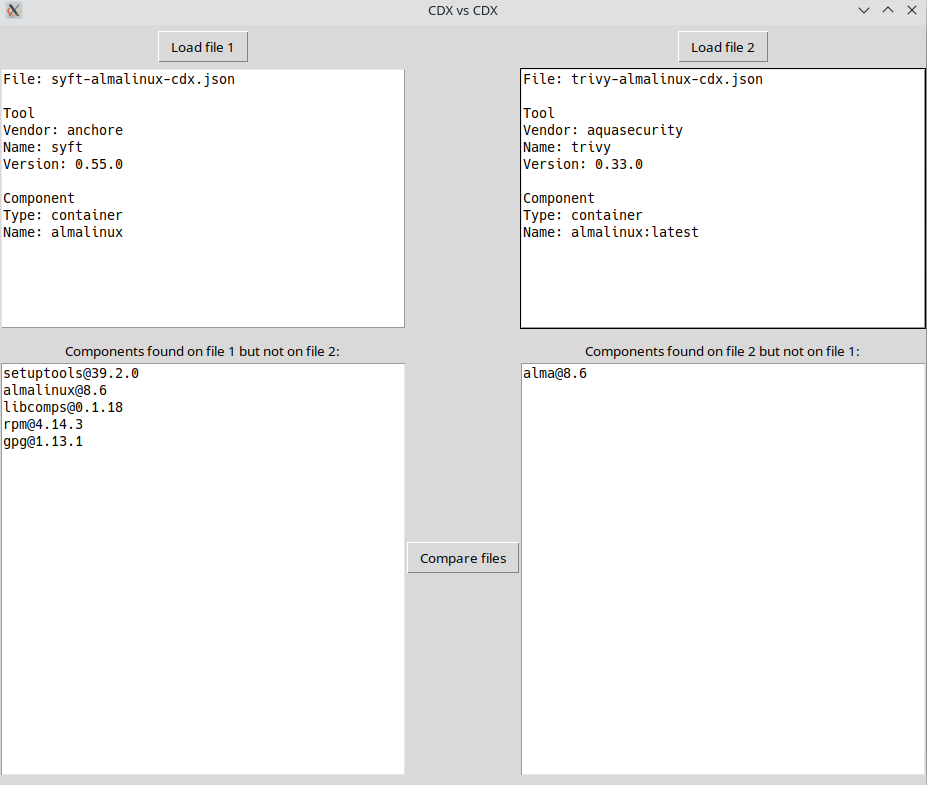
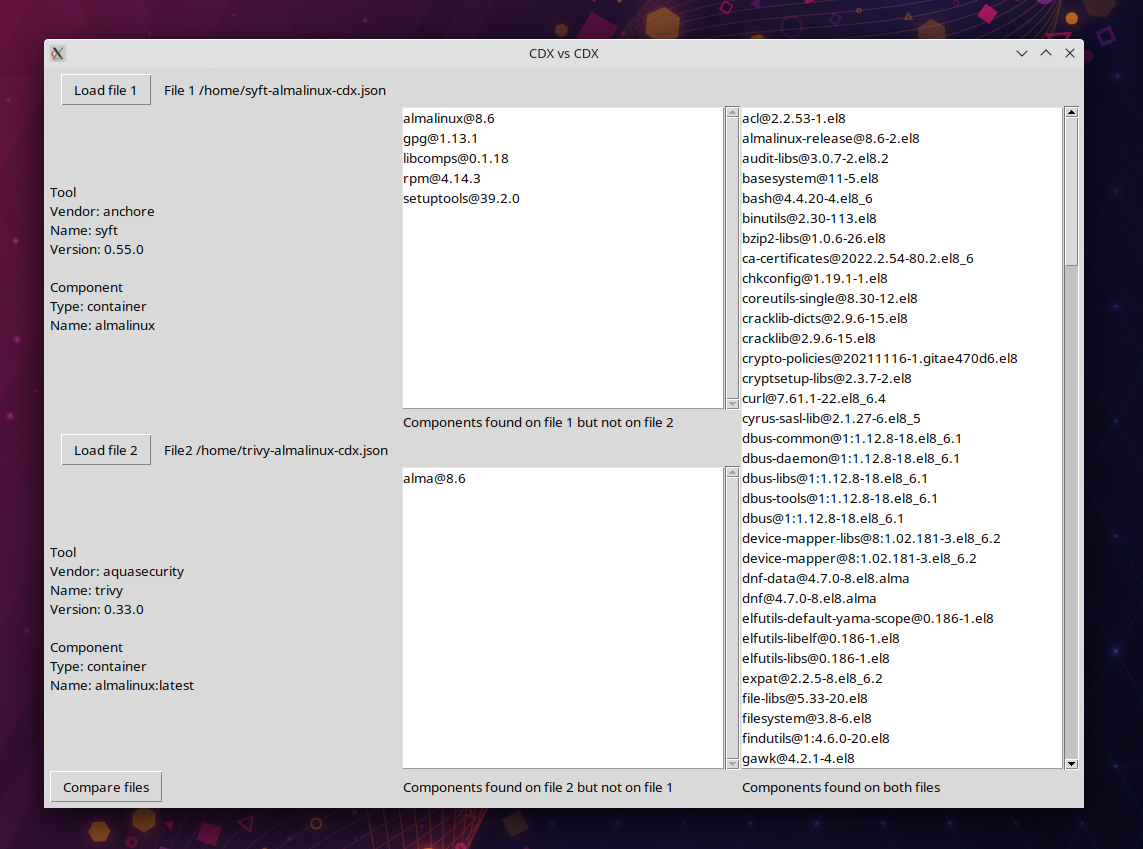
feat: update documentation

diff --git a/README.md b/README.md
@@ -1,6 +1,7 @@
 # CDX vs CDX
 
-Compare two CycloneDX files and see which components each one have that the other does not have.
+Compare two CycloneDX files in JSON format. See which components each one have that 
+the other does not have and which components both have in common.
 
 ![screenshot of application](cdx-vs-cdx.png "Screenshot")
 
